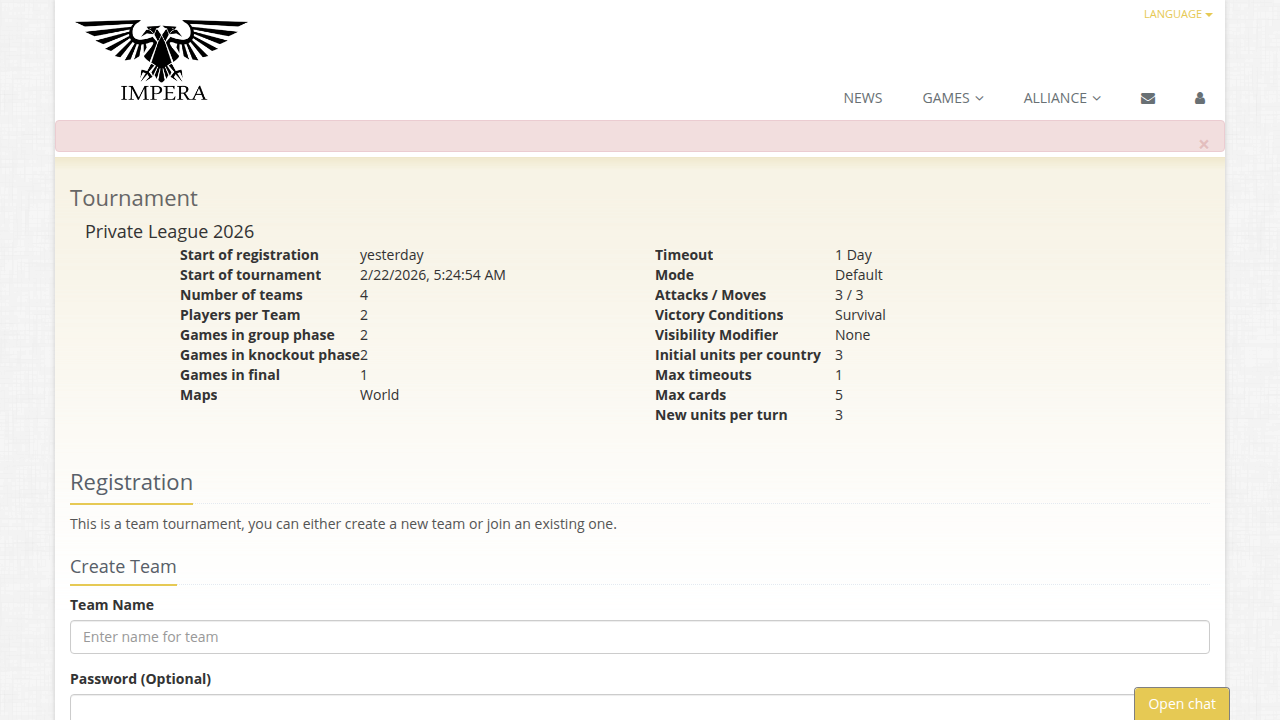
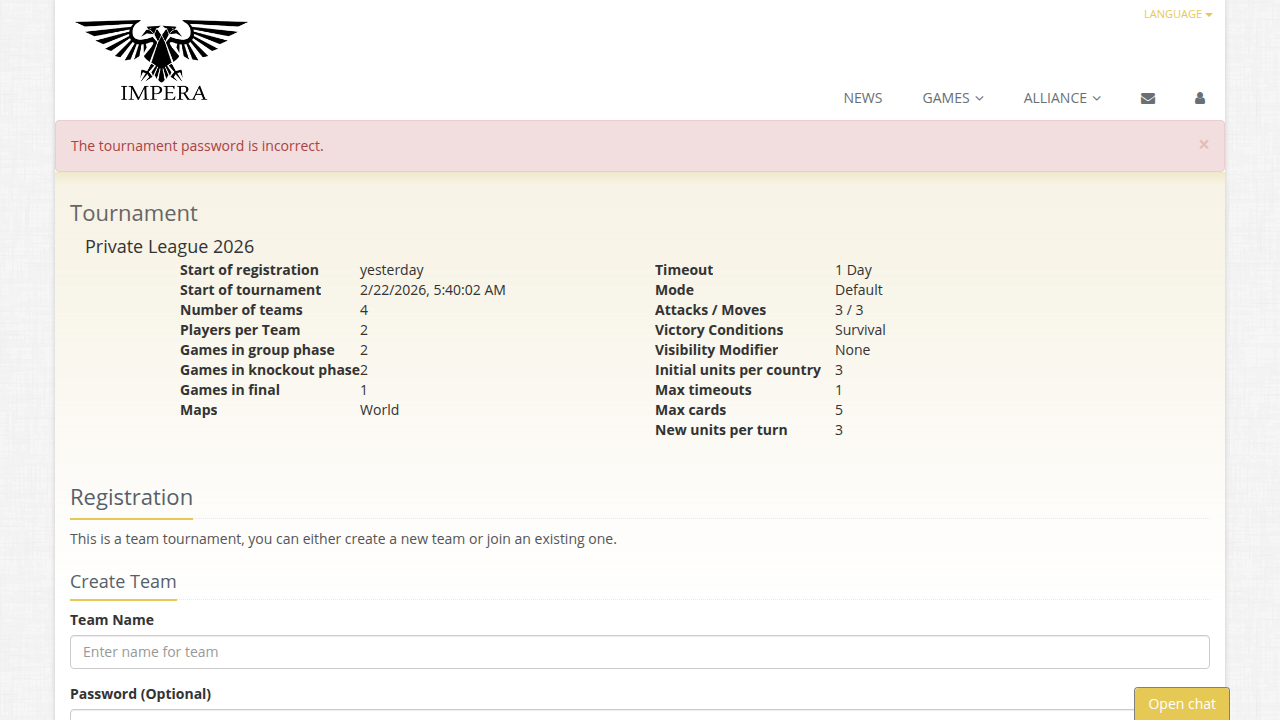
Fix empty error message: use rejectWithValue to preserve API error data and add TournamentIncorrectPassword mapping

diff --git a/src/lib/domain/game/tournaments.slice.ts b/src/lib/domain/game/tournaments.slice.ts
@@ -12,6 +12,26 @@ import { AppThunkArg } from "../../../store";
 import { MessageType, showMessage } from "../shared/message/message.slice";
 import { getToken } from "../shared/session/session.selectors";
 
+/**
+ * SwaggerException stores the API JSON body in its `response` string property.
+ * RTK's serializeError strips this, so we parse it here and re-throw a plain
+ * object that doSubmit's catch-block can read (`error`, `error_Description`).
+ */
+function extractApiError(thrown: unknown): unknown {
+    const swaggerEx = thrown as { response?: string } | undefined;
+    if (swaggerEx?.response) {
+        try {
+            const body = JSON.parse(swaggerEx.response);
+            if (body.error || body.error_Description) {
+                return body;
+            }
+        } catch {
+            // not JSON – fall through
+        }
+    }
+    return thrown;
+}
+
 const initialState = {
     isLoading: false,
     tournaments: [] as TournamentSummary[],
@@ -41,11 +61,15 @@ export const fetch = createAsyncThunk<Tournament, string, AppThunkArg>(
 export const join = createAsyncThunk<
     void,
     { tournamentId: string; password?: string },
-    AppThunkArg
+    AppThunkArg<unknown>
 >("tournaments/join", async ({ tournamentId, password }, thunkAPI) => {
-    await thunkAPI.extra
-        .createClient(getToken(thunkAPI.getState()), TournamentClient)
-        .postJoin(tournamentId, password);
+    try {
+        await thunkAPI.extra
+            .createClient(getToken(thunkAPI.getState()), TournamentClient)
+            .postJoin(tournamentId, password);
+    } catch (e) {
+        return thunkAPI.rejectWithValue(extractApiError(e));
+    }
 
     await thunkAPI.dispatch(fetch(tournamentId));
 
@@ -83,13 +107,17 @@ export const createTeam = createAsyncThunk<
         teamPassword?: string;
         tournamentPassword?: string;
     },
-    AppThunkArg
+    AppThunkArg<unknown>
 >(
     "tournaments/create-team",
-    ({ tournamentId, teamName, teamPassword, tournamentPassword }, thunkAPI) => {
-        return thunkAPI.extra
-            .createClient(getToken(thunkAPI.getState()), TournamentClient)
-            .postCreateTeam(tournamentId, teamName, teamPassword, tournamentPassword);
+    async ({ tournamentId, teamName, teamPassword, tournamentPassword }, thunkAPI) => {
+        try {
+            return await thunkAPI.extra
+                .createClient(getToken(thunkAPI.getState()), TournamentClient)
+                .postCreateTeam(tournamentId, teamName, teamPassword, tournamentPassword);
+        } catch (e) {
+            return thunkAPI.rejectWithValue(extractApiError(e));
+        }
     }
 );
 
@@ -101,13 +129,17 @@ export const joinTeam = createAsyncThunk<
         teamPassword?: string;
         tournamentPassword?: string;
     },
-    AppThunkArg
+    AppThunkArg<unknown>
 >(
     "tournaments/join-team",
-    ({ tournamentId, teamId, teamPassword, tournamentPassword }, thunkAPI) => {
-        return thunkAPI.extra
-            .createClient(getToken(thunkAPI.getState()), TournamentClient)
-            .postJoinTeam(tournamentId, teamId, teamPassword, tournamentPassword);
+    async ({ tournamentId, teamId, teamPassword, tournamentPassword }, thunkAPI) => {
+        try {
+            return await thunkAPI.extra
+                .createClient(getToken(thunkAPI.getState()), TournamentClient)
+                .postJoinTeam(tournamentId, teamId, teamPassword, tournamentPassword);
+        } catch (e) {
+            return thunkAPI.rejectWithValue(extractApiError(e));
+        }
     }
 );
 

diff --git a/src/i18n/errorCodes.ts b/src/i18n/errorCodes.ts
@@ -62,6 +62,8 @@ export const getErrorMessage = (errorCode: string): string | undefined => {
             return __(
                 "Game is password protected and the given password is not correct"
             );
+        case "TournamentIncorrectPassword":
+            return __("The tournament password is incorrect.");
     }
 
     return undefined;
